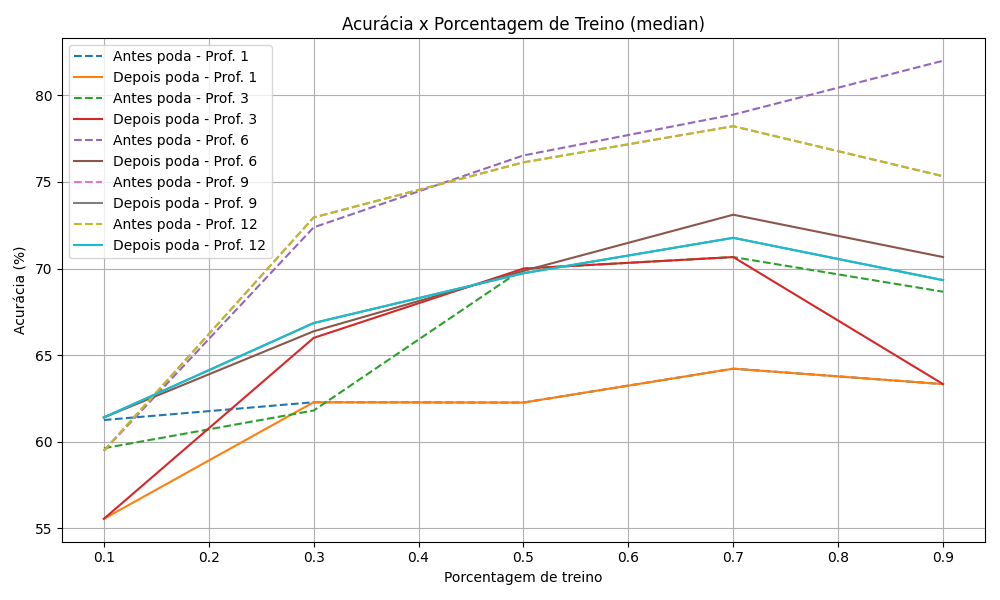
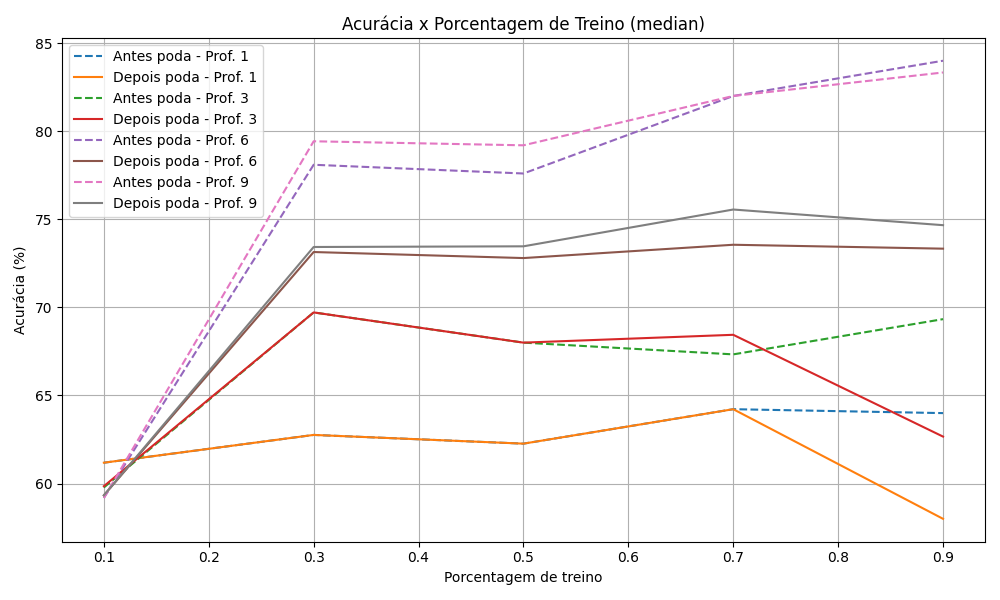
Ajuste no cálculo da entropia

diff --git a/t2/c45.py b/t2/c45.py
@@ -38,8 +38,12 @@ class c45Node:
             threshold = self.calcThreshold(i, method=self.method)
             if threshold is None:
                 continue
-            entropy1 = self.calcEntropy([row for row in self.data if row[i] < threshold])
-            entropy2 = self.calcEntropy([row for row in self.data if row[i] >= threshold])
+            left = [row for row in self.data if row[i] < threshold]
+            right = [row for row in self.data if row[i] >= threshold]
+            total = len(self.data)
+
+            entropy1 = self.calcEntropy(left) * len(left) / total
+            entropy2 = self.calcEntropy(right) * len(right) / total
             entropy = entropy1 + entropy2
             if minEntropy is None or entropy < minEntropy:
                 minEntropy = entropy
@@ -183,8 +187,8 @@ def testar_variacoes(data_path="dataset/treino_sinais_vitais_com_label.csv"):
     data = pd.read_csv(data_path).values
     training_percentages = [0.1, 0.3, 0.5, 0.7, 0.9]
     methods = ['median', 'average', 'entropy']
-    confidence = 0
-    maxDepth_values = [1, 3, 6, 9, 12]  # Vários máximos de profundidade para comparar
+    confidence = 0.3
+    maxDepth_values = [1, 3, 6, 9]  # Vários máximos de profundidade para comparar
 
     os.makedirs("graficos/c45", exist_ok=True)
 
@@ -203,15 +207,15 @@ def testar_variacoes(data_path="dataset/treino_sinais_vitais_com_label.csv"):
                 teste = data[int(len(data)*perc):]
 
                 split_index = int(len(treino) * 0.7)
-                treino_construcao = treino[:split_index]
-                treino_validacao = treino[split_index:]
+                # treino_construcao = treino[:split_index]
+                # treino_validacao = treino[split_index:]
 
-                tree = c45Node(treino_construcao, maxDepth=maxDepth, method=method)
+                tree = c45Node(treino, maxDepth=maxDepth, method=method)
                 tree.build_tree()
 
                 acc_antes = validate(teste, tree)
                 NOS_PODADOS = 0
-                pruning(tree, confidence=confidence, pruning_data=treino_validacao)
+                pruning(tree, confidence=confidence, pruning_data=treino)
                 acc_depois = validate(teste, tree)
 
                 resultados[method][maxDepth]['antes'].append(acc_antes)
